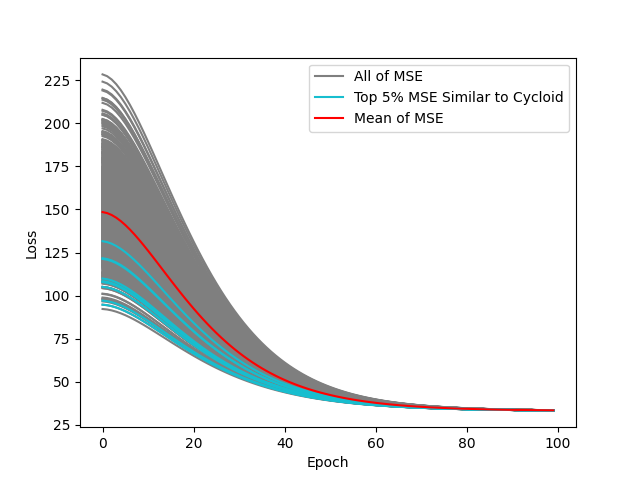
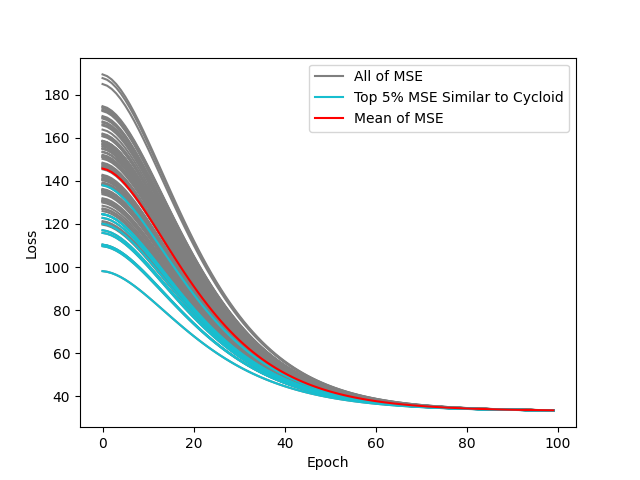
lower compare code added

diff --git a/main.py b/main.py
@@ -19,7 +19,8 @@ random.seed(random_seed)  # random
 
 #parameter
 num_epochs = 100
-num_iter = 1000
+num_iter = 100
+num_extract = 10
 
 # Define the input and target
 x = torch.linspace(-2, 2, 100).view(-1,1)
@@ -33,7 +34,7 @@ theta_2 = torch.linspace(0, 1 * np.pi, num_epochs).view(-1,1)
 # Train the model
 mse_losses = []
 mse_weights_list = []
-mse_bias_list = []
+# mse_bias_list = []
 converged_epochs = []
 
 for i in tqdm(range(num_iter)):
@@ -61,7 +62,7 @@ for i in tqdm(range(num_iter)):
         # Backward pass
         loss.backward()
         crr_weights_list.append(weights.item())
-        crr_bias_list.append(bias.item())
+        # crr_bias_list.append(bias.item())
         optimizer.step()
 
         # Store the loss
@@ -73,13 +74,13 @@ for i in tqdm(range(num_iter)):
                 gradient = losses[-1] - losses[-2] # 현재 epoch과 이전 epoch의 loss 값 차이
                 if abs(gradient) < 0.07: # 기울기가 0에 가까워질 때마다 converged_epochs 리스트에 epoch 값을 추가
                     converged_epochs.append(epoch)
-                if epoch == num_epochs-1: # 한 epoch 끝까지 수렴 안 하면 마지막 값을 수렴점으로 지정
+                if epoch == num_epochs - 1: # 한 epoch 끝까지 수렴 안 하면 마지막 값을 수렴점으로 지정
                     converged_epochs.append(epoch)
 
     # Store the losses
     mse_losses.append(losses)
     mse_weights_list.append(crr_weights_list)
-    mse_bias_list.append(crr_bias_list)
+    # mse_bias_list.append(crr_bias_list)
 
 gradients_list = []
 for i in range(len(mse_weights_list)):
@@ -112,33 +113,41 @@ for i in range(len(mse_weights_list)):
         gradients_diff_mean = gradients_diff_mean_1
     gradients_list.append(gradients_diff_mean)
 
-    # #compare gradient graph
-    # plt.plot(x_1, cycloid_graph_1_1, label="Cycloid", color="Orange")
-    # plt.plot(x_2, cycloid_graph_2_1, color="Orange")
-    # plt.plot(mse_weights_list[i], mse_losses[i], label="MSE Loss Function")
-    # plt.xlabel("weight")
-    # plt.ylabel("Loss")
-    # plt.legend()
-    # # plt.show()
+    #compare gradient graph
+    plt.plot(x_1, cycloid_graph_1_1, label="Cycloid", color="Orange")
+    plt.plot(x_2, cycloid_graph_2_1, color="Orange")
+    plt.plot(mse_weights_list[i], mse_losses[i], label="MSE Loss Function")
+    plt.xlabel("weight")
+    plt.ylabel("Loss")
+    plt.legend()
+    plt.show()
     # plt.savefig('fig1.png')
-    # print()
+    print()
 
 min_idx = np.argmin(gradients_list)
 mse_losses_mean_min = mse_losses[min_idx]
 mse_losses_mean = np.mean(mse_losses, axis=0)
 
-min_idx_10 = np.argsort(gradients_list)[:(10)] #상위 5% 추출하여 비교
+min_idx_10 = np.argsort(gradients_list)[:num_extract] #상위 n개 추출하여 비교
+
+sorted_indices = sorted(range(len(mse_losses)), key=lambda i: mse_losses[i][0]) # 0번째 원소를 기준으로 리스트를 정렬한 후 인덱스를 정렬
+init_loss_min_idx_10 = sorted_indices[:num_extract]  # 상위 n개 인덱스 추출
 
 converged_10_list = []
 for i in range(len(min_idx_10)):
     converged_10_list.append(converged_epochs[min_idx_10[i]])
 
+init_converged_10_list = []
+for i in range(len(init_loss_min_idx_10)):
+    init_converged_10_list.append(converged_epochs[init_loss_min_idx_10[i]])
+
 #when converge
-print("Top Cycloid Loss function Converge at: ", converged_epochs[min_idx])
-print("Top 5% Cycloid Loss function Converge Mean at: ", converged_10_list)
+# print("Top Cycloid Loss function Converge at: ", converged_epochs[min_idx])
 print("Top 5% Cycloid Loss function Converge Mean at: ", np.mean(converged_10_list))
+print("Top 5% low initial loss Mean: ", np.mean(init_converged_10_list))
 print("Converge Mean: ", np.mean(converged_epochs))
 print("Top 5% Cycloid Loss Varience: ", np.var(converged_10_list))
+print("Top 5% low initial Loss Varience: ", np.var(init_converged_10_list))
 print("MSE Loss Varience: ", np.var(converged_epochs))
 
 # Plot the losses
@@ -152,10 +161,13 @@ for i in range(len(mse_losses)):
 for i in range(len(converged_10_list)):
     plt.plot(mse_losses[min_idx_10[i]], color='tab:cyan')
 
+for i in range(len(init_converged_10_list)):
+    plt.plot(mse_losses[init_loss_min_idx_10[i]], color='tab:orange')
+
 plt.plot(mse_losses_mean, label="Mean of MSE", color='red')
 
 plt.xlabel("Epoch")
 plt.ylabel("Loss")
 plt.legend()
-plt.savefig("fig2.png")
-# plt.show()
+# plt.savefig("fig2.png")
+plt.show()
